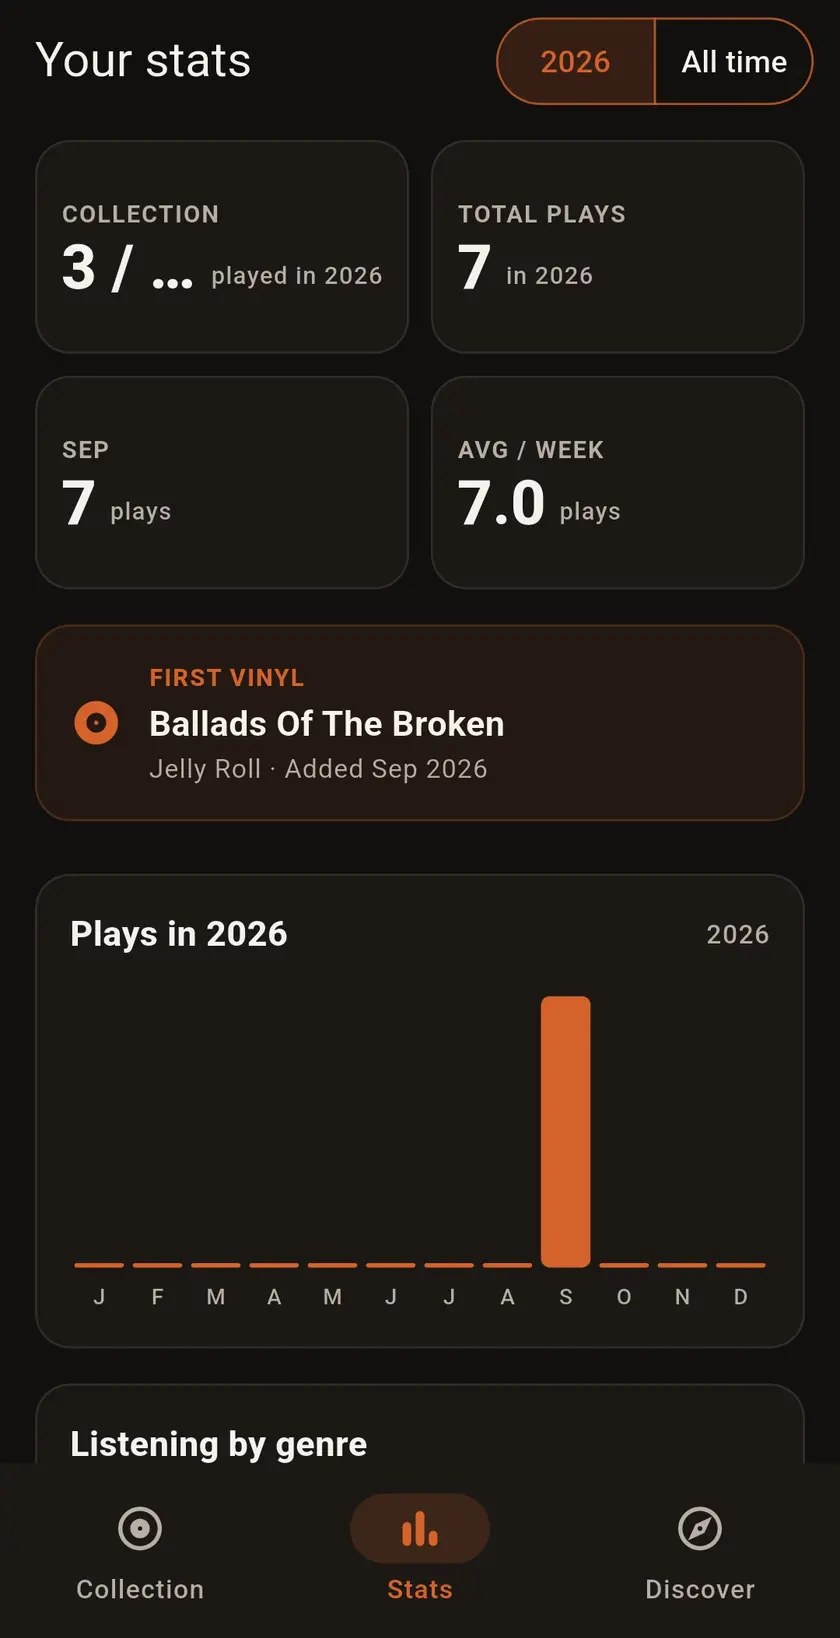
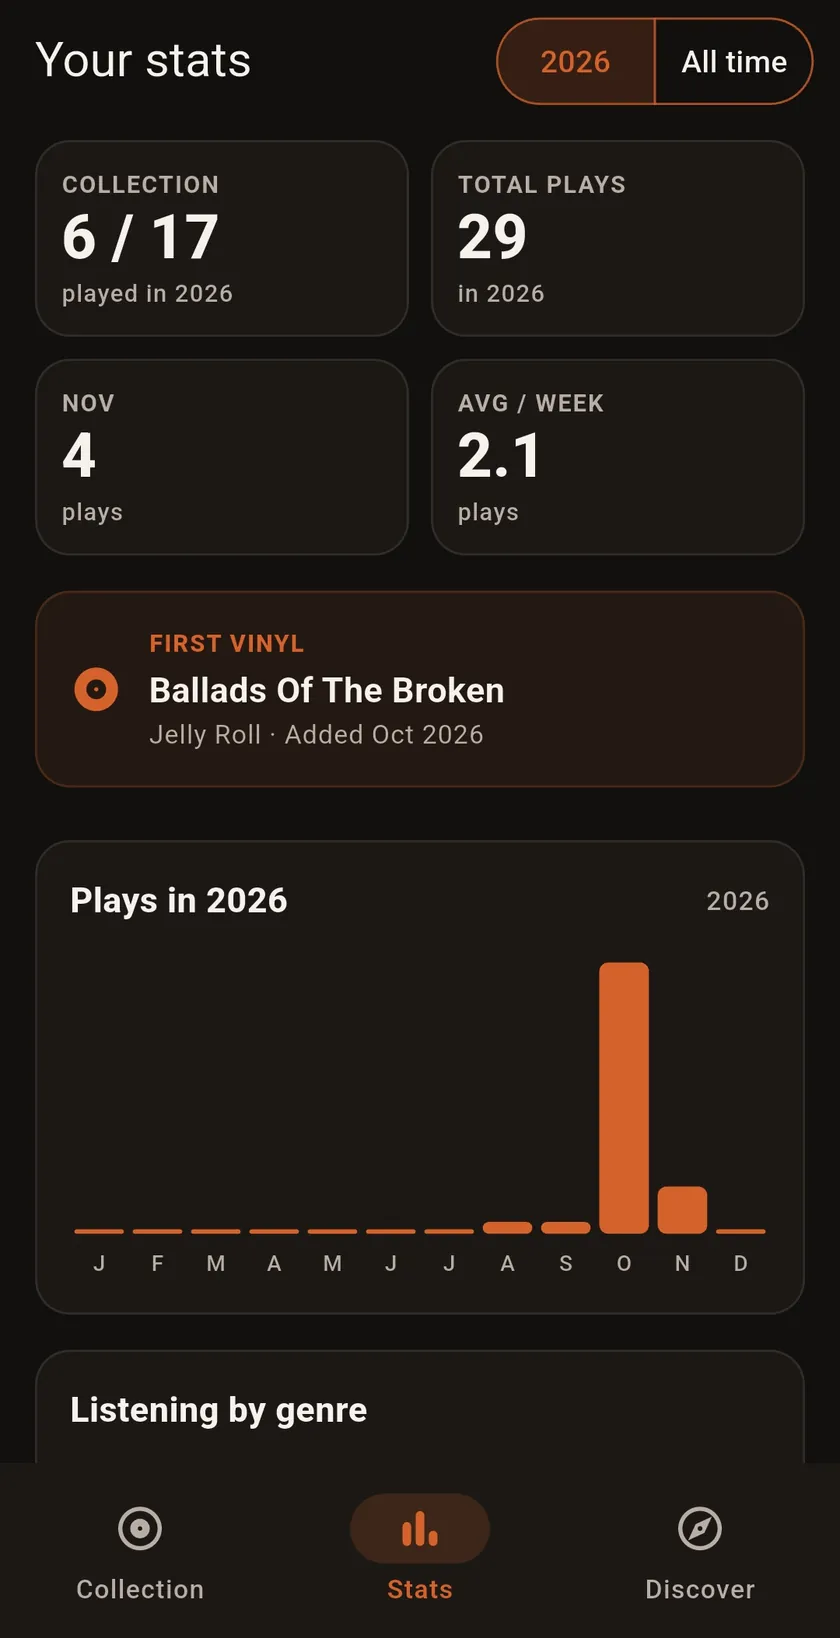
Show the full Stats screen now that the collection tile is fixed
Use a fresh Stats capture from a current app build, where the
Collection tile reads "6 / 17" instead of truncating. The crop that
hid that tile (.device--crop) is removed, the image opens full-size
like the other screenshots, and the alt text names the totals.

Claude-Session: https://claude.ai/code/session_01DQRLS8pSWnZLDh1tVfQKog

diff --git a/index.html b/index.html
@@ -426,16 +426,18 @@
             </ul>
           </div>
           <div class="phones phones--single reveal">
-            <div class="device device--crop">
-              <img
+            <a
+              class="device"
+              href="/assets/screenshots/release/stats.webp"
+              data-zoom
+              ><img
                 src="/assets/screenshots/release/stats.webp"
                 width="840"
                 height="1638"
                 loading="lazy"
                 decoding="async"
-                alt="Your stats screen for 2026: plays this month, average plays per week, the first vinyl added, and a Plays in 2026 monthly bar chart."
-              />
-            </div>
+                alt="Your stats screen for 2026: 6 of 17 records played, 29 total plays, plays this month, average plays per week, the first vinyl added, and a Plays in 2026 monthly bar chart."
+            /></a>
           </div>
         </div>
       </section>

diff --git a/styles.css b/styles.css
@@ -388,14 +388,6 @@ a.device {
 a.device:hover {
   transform: translateY(-4px);
 }
-.device--crop {
-  overflow: hidden;
-}
-.device--crop img {
-  aspect-ratio: 840 / 1180;
-  object-fit: cover;
-  object-position: 50% 100%;
-}
 
 /* ---------- Hero ---------- */
 .hero {
